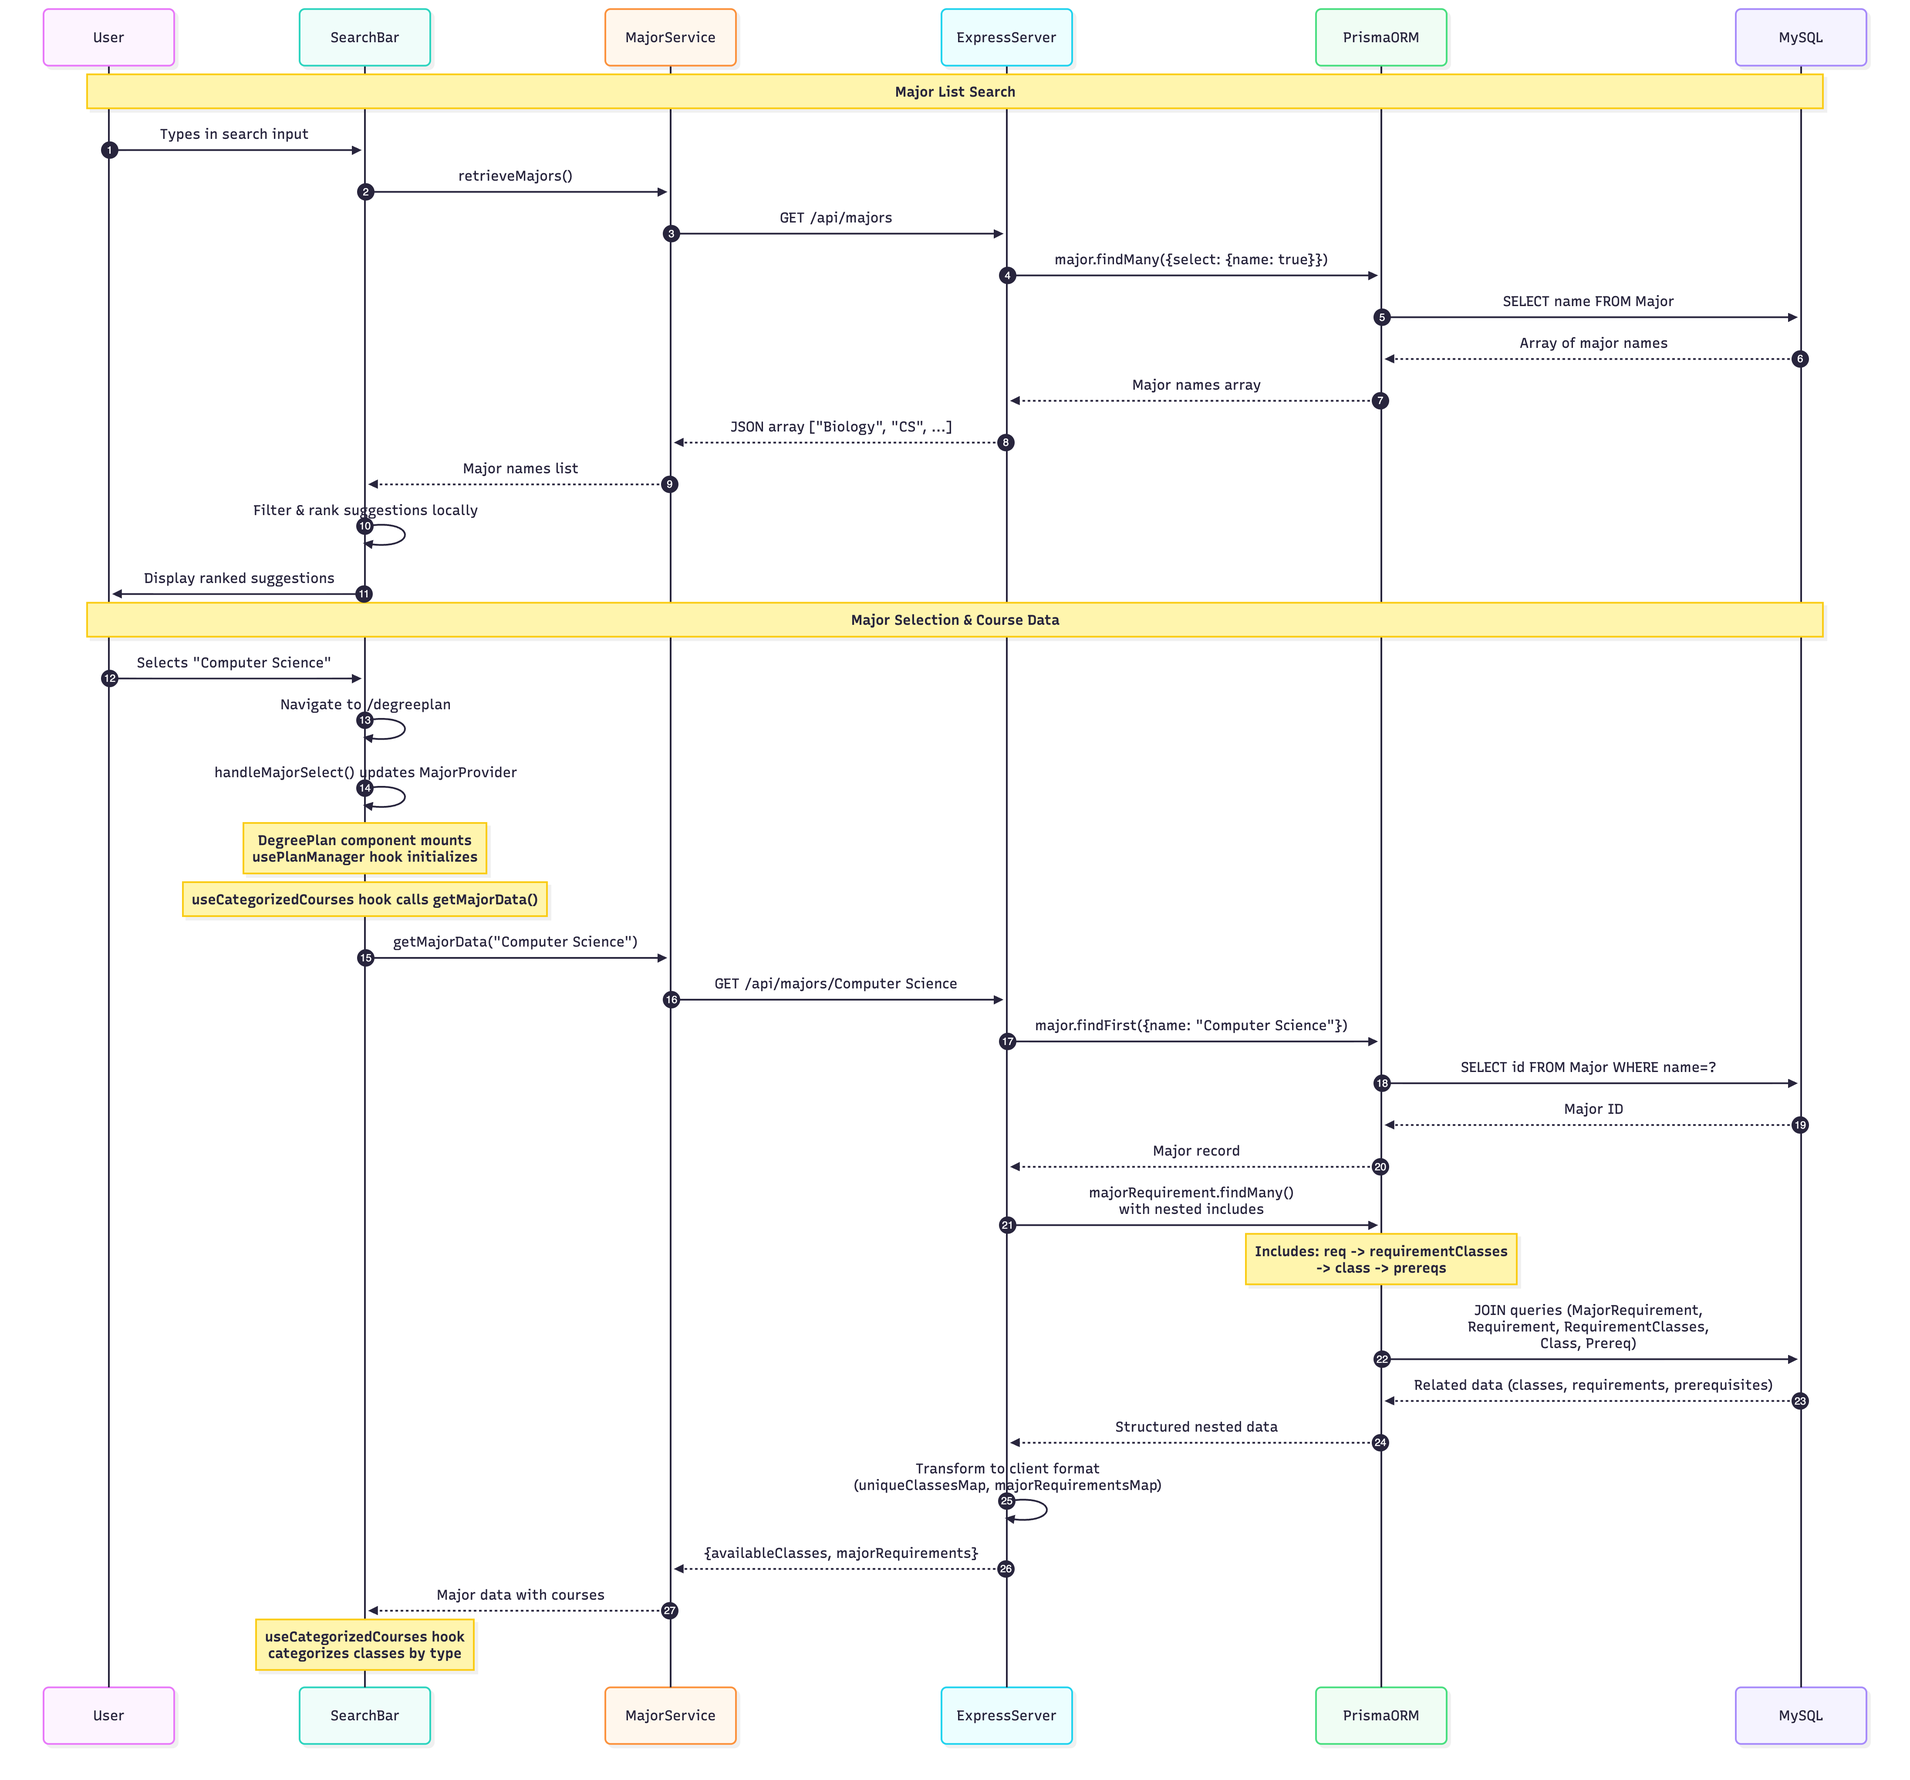
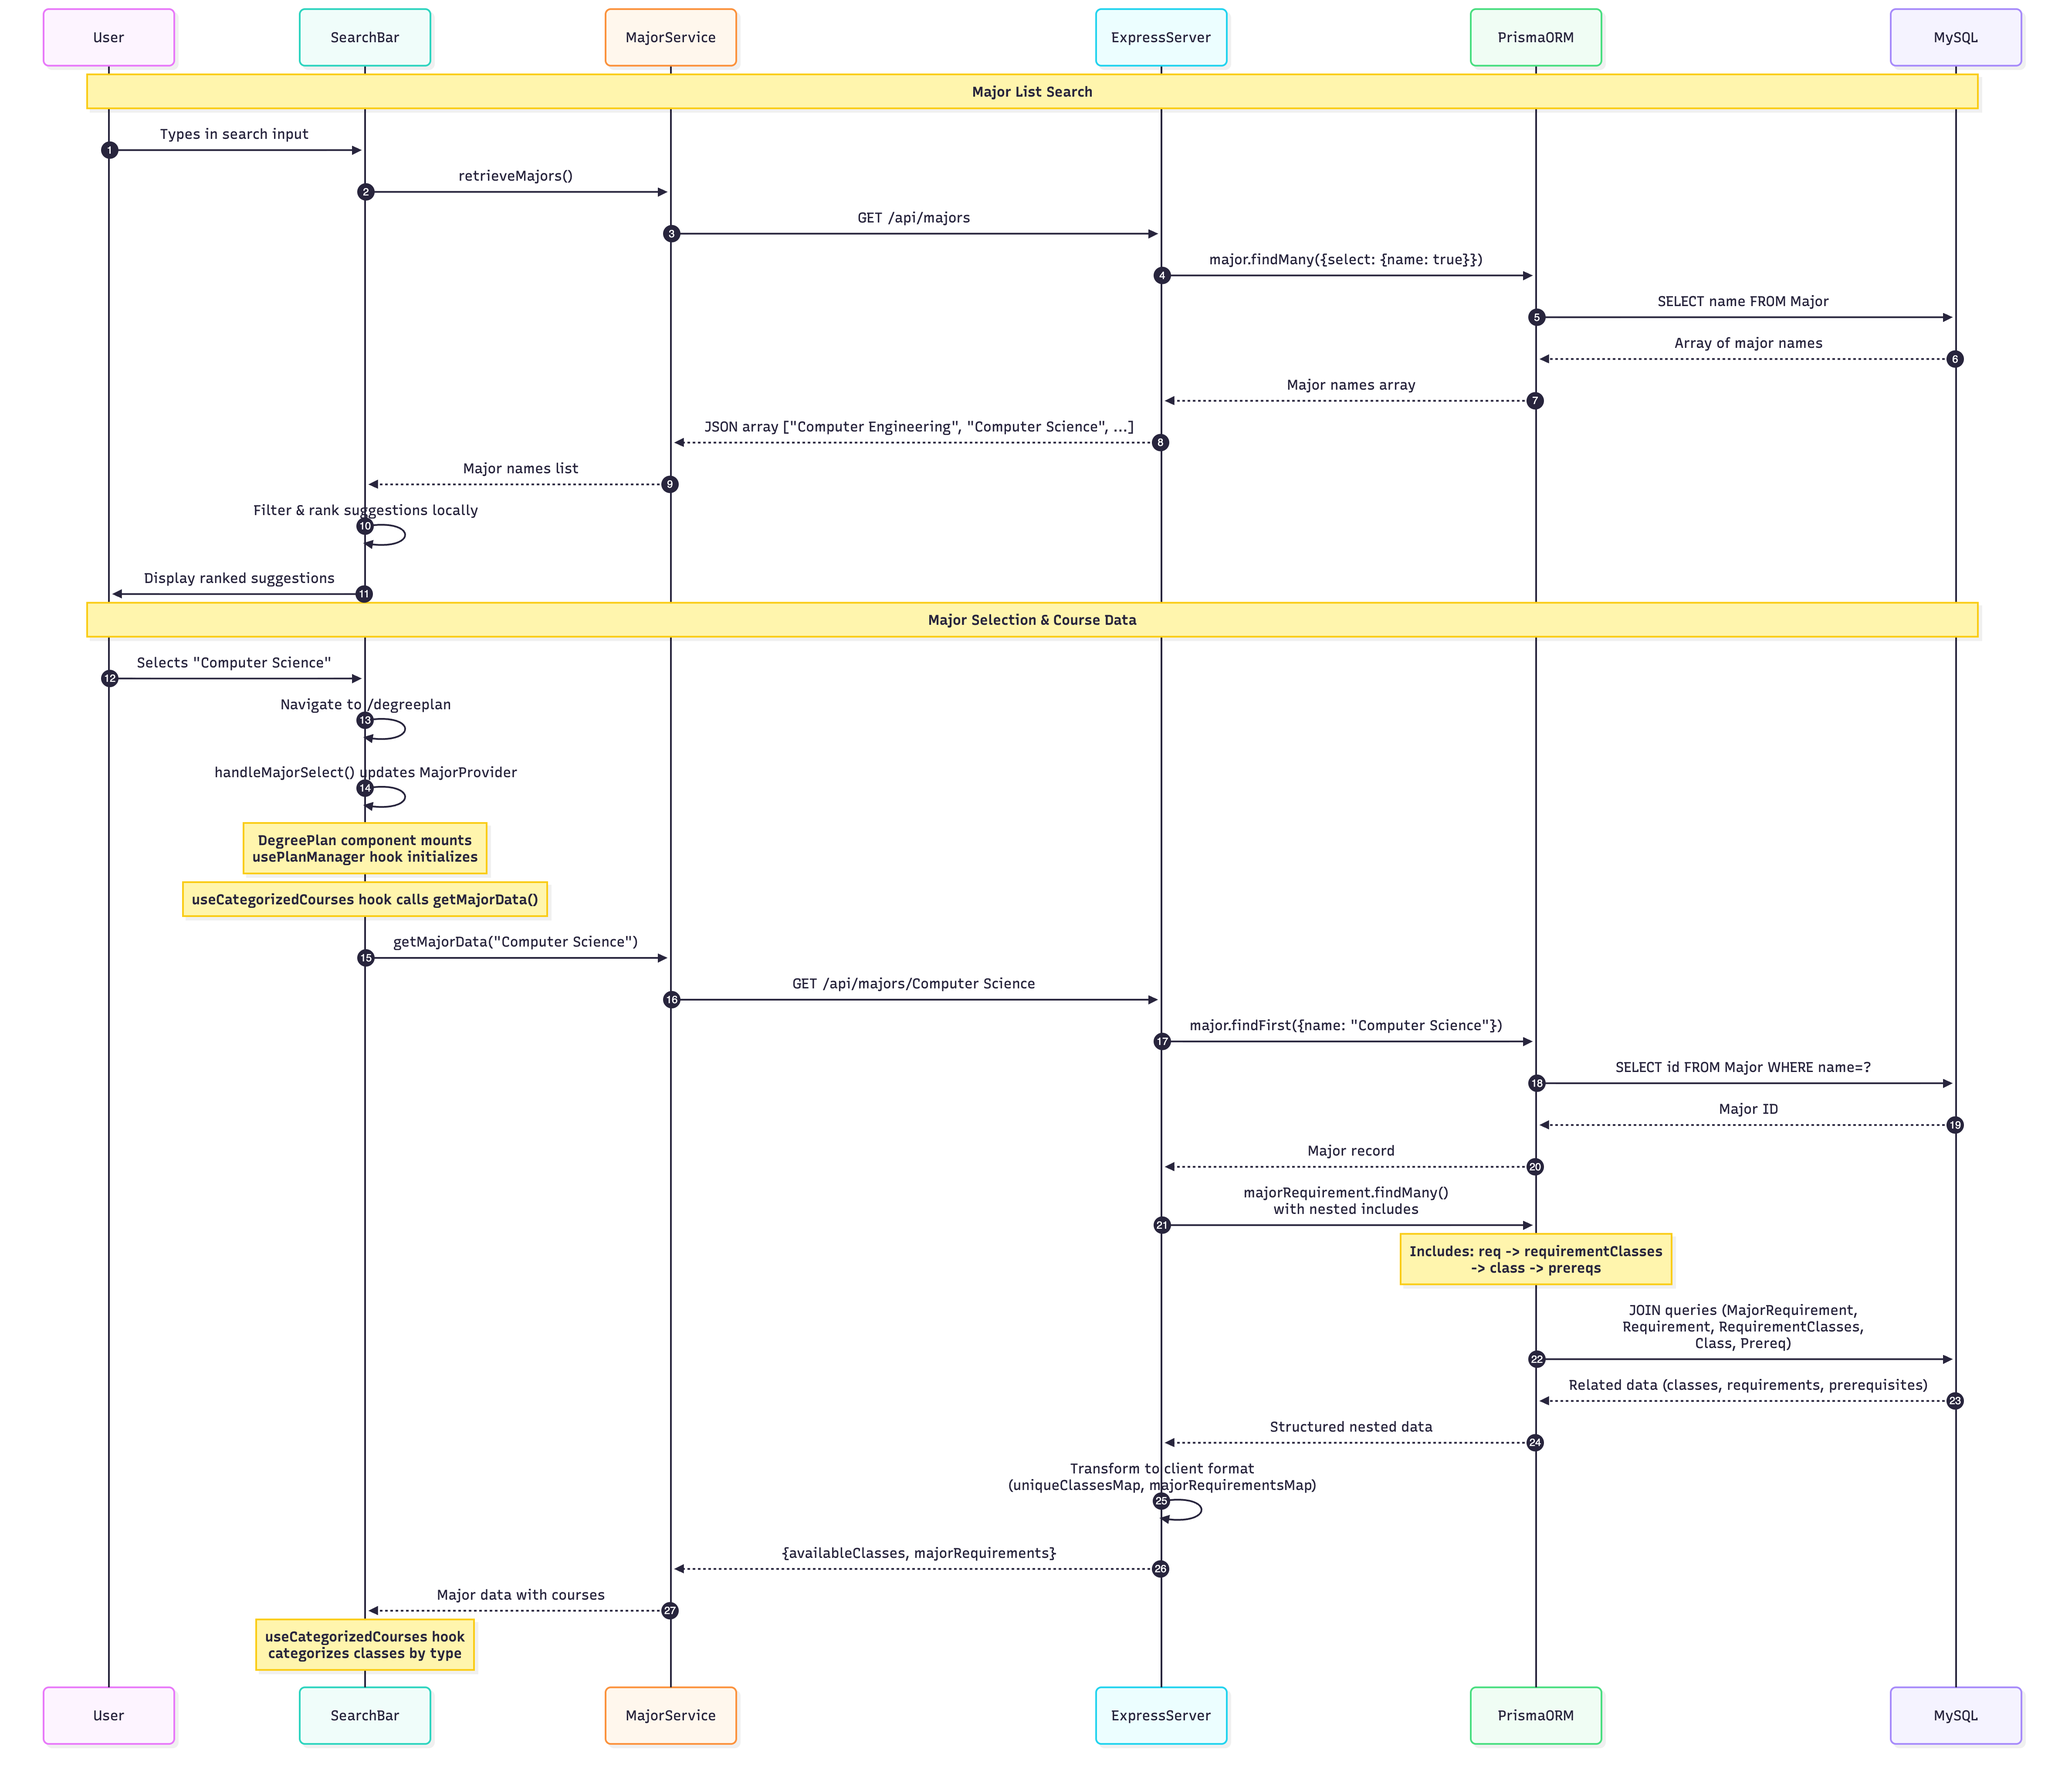
Update README with CourseCompiler name and verify accuracy, update MajorSearchSequenceDiagram

diff --git a/README.md b/README.md
@@ -1,10 +1,10 @@
-# BruinPlan: UCLA 4-Year Class Planner
+# CourseCompiler: UCLA 4-Year Class Planner
 
-BruinPlan helps UCLA Engineering students plan their 4-year degree path. You can drag and drop courses into a quarterly schedule, see which prerequisites you need, and track your progress toward graduation.
+CourseCompiler helps UCLA Engineering students plan their 4-year degree path. You can drag and drop courses into a quarterly schedule, see which prerequisites you need, and track your progress toward graduation.
 
 ## What It Does
 
-The app lets you search for your major, see all the required classes, and build a plan by dragging courses into quarters. It checks prerequisites automatically and warns you if you're taking too many units. You can save multiple plans and switch between them.
+The app lets you search for your engineering major, see all the required classes, and build a plan by dragging courses into quarters. It checks prerequisites automatically and warns you if you're taking too many units. You can save multiple plans and switch between them.
 
 ### Main Features
 
@@ -12,11 +12,12 @@ The app lets you search for your major, see all the required classes, and build 
 - See all required courses for your major loaded from our database
 - Drag courses into a 4-year quarterly schedule
 - System blocks you from adding classes if you haven't taken prerequisites
-- Get warnings if a quarter goes over 21 units
+- System blocks you from adding classes if a quarter would exceed 21 units (visual warning shown)
 
 **Progress Tracking**
 - See how much of your degree you've completed
-- Track progress by requirement type (Lower Division, Upper Division, GE, etc.)
+- Track progress by requirement type (Prep, Major, Tech Breadth, Sci-Tech, GE, etc.)
+- Progress bar shows completion percentage for each requirement category
 
 **Saving Plans**
 - Create an account to save your plans
@@ -24,14 +25,14 @@ The app lets you search for your major, see all the required classes, and build 
 - Your plans are stored in the database
 
 **Search**
-- Search for majors with real-time suggestions
+- Search for engineering majors with real-time suggestions
 - Results are ranked by relevance (exact matches first, then partial matches)
 
 ## How It's Built
 
 The frontend is React with Vite. We use React Router for navigation and @dnd-kit for the drag-and-drop functionality. State is managed with React Context (for auth and major selection) and custom hooks for different features.
 
-The backend is Express.js with Prisma as our ORM. We use MySQL for the database. Authentication uses JWT tokens, and passwords are hashed with bcrypt.
+The backend is Express.js with Prisma as our ORM. We use MySQL for the database. Authentication uses JWT tokens, and passwords are hashed with bcrypt. The server code is organized in `server/app.js` (routes and middleware) and `server/server.js` (entry point).
 
 We organized the code into custom hooks so each piece has a clear responsibility. API calls go through service functions, and protected routes use JWT middleware.
 
@@ -46,6 +47,7 @@ This diagram shows how React components and hooks are organized and how they int
 Owen u gotta add this
 
 i didnt wanna leave this blank so asked ai to make a random paragraph idk how well it aligns with yours
+
 The App component wraps everything with AuthProvider and MajorProvider for global state management. The DegreePlan page uses the usePlanManager hook, which coordinates useCategorizedCourses (fetches and categorizes courses), useDragAndDrop (handles the drag-and-drop logic), and useCourseValidation (checks prerequisites). PlanGrid renders the 4×4 grid of quarters, and CourseSidebar displays the categorized courses. Components like SavePlanButton, SavedPlansButton, and ProgressBar interact with the plan manager to provide the full functionality.
 
 ### 2. Database Schema Diagram
@@ -57,6 +59,7 @@ This ER diagram shows how the database tables relate to each other.
 Ciaran u gotta add this
 
 i didnt wanna leave this blank either so also asked ai to make a random paragraph idk how well it aligns with yours
+
 Users can have multiple Plans. Each Plan belongs to one Major and has multiple Quarters. Each Quarter has multiple PlanClasses, which link to Class records. Majors have Requirements through MajorRequirement, and Requirements link to Classes through RequirementClasses. Classes can have Prerequisites pointing to other Classes. The schema supports complex prerequisite relationships and tracks which classes fulfill which requirements.
 
 ### 3. Application State Diagram
@@ -65,7 +68,7 @@ This shows the different states the application can be in and how it transitions
 
 ![Application State Diagram](diagrams/StateDiagram.png)
 
-The application starts at HomeScreen where users can search for majors. Selecting a major transitions to LoadingPlan, then to PlanReady where users can drag and drop courses. The PlanReady state includes nested states for dragging, validating drops, saving plans, and browsing saved plans. Users can also authenticate from HomeScreen, which transitions to the Authenticating state.
+The application starts at HomeScreen where users can search for engineering majors. Selecting a major transitions to LoadingPlan, then to PlanReady where users can drag and drop courses. The PlanReady state includes nested states for dragging, validating drops, saving plans, and browsing saved plans. Users can also authenticate from HomeScreen, which transitions to the Authenticating state.
 
 ### 4. Major Search Sequence Diagram
 
@@ -73,7 +76,7 @@ This sequence diagram shows how major search and course data retrieval works.
 
 ![Major Search Sequence Diagram](diagrams/MajorSearchSequenceDiagram.png)
 
-When a user types in the search bar, the app fetches all majors from the server. The server queries the database through Prisma and returns a list of major names. The client filters and ranks suggestions locally. When a user selects a major, the app navigates to the degree plan page and fetches detailed course data including classes, requirements, and prerequisites. The server performs complex joins to retrieve all related data and transforms it into the format the client needs.
+When a user types in the search bar, the app fetches all engineering majors from the server. The server queries the database through Prisma and returns a list of major names. The client filters and ranks suggestions locally. When a user selects an engineering major, the app navigates to the degree plan page and fetches detailed course data including classes, requirements, and prerequisites. The server performs complex joins to retrieve all related data and transforms it into the format the client needs.
 
 ### 5. Authentication Sequence Diagram
 
@@ -106,7 +109,7 @@ When saving a plan, the client serializes the drag-and-drop zones into a quarter
 1. **Clone the repo**
    ```bash
    git clone <repository-url>
-   cd BruinPlan
+   cd CourseCompiler
    ```
 
 2. **Set up the server**
@@ -151,34 +154,39 @@ When saving a plan, the client serializes the drag-and-drop zones into a quarter
 
 3. **Open it in your browser**
    - Go to `http://localhost:5173`
-   - Search for a major (try "Computer Science")
+   - Search for an engineering major (try "Computer Science" or "Computer Engineering")
    - Start building your plan
 
 ## Project Structure
 
 ```
-BruinPlan/
+CourseCompiler/
 ├── client/
 │   ├── src/
-│   │   ├── components/        # React components
-│   │   │   ├── ai/          # AI chat stuff
+│   │   ├── components/      # React components
+│   │   │   ├── ai/          # AI chat components
 │   │   │   ├── ui/          # Reusable UI components
-│   │   │   └── ...          # Other components
+│   │   │   └── ...          # Other components (Auth, SearchBar, etc.)
 │   │   ├── contexts/        # React contexts (AuthContext)
-│   │   ├── hooks/           # Custom hooks
-│   │   ├── pages/           # Page components
-│   │   ├── providers/       # Context providers
+│   │   ├── hooks/           # Custom hooks (planManager, useDragAndDrop, etc.)
+│   │   ├── pages/           # Page components (HomeScreen, DegreePlan)
+│   │   ├── providers/       # Context providers (MajorProvider)
 │   │   ├── services/        # API service functions
+│   │   ├── styles/          # CSS files
 │   │   └── utils/           # Helper functions
 │   └── package.json
 ├── server/
-│   ├── app.js              # Express routes
-│   ├── server.js           # Entry point
+│   ├── app.js              # Express routes and middleware
+│   ├── server.js           # Entry point (starts server)
 │   ├── prisma/
 │   │   ├── schema.prisma   # Database schema
 │   │   └── migrations/     # DB migrations
-│   ├── features/           # Cucumber tests
+│   ├── features/           # Cucumber E2E tests
+│   │   └── step_definitions/
+│   ├── scripts/            # Utility scripts
 │   └── package.json
+├── diagrams/               # Architecture diagram images
+├── scraper/                # Data scraping scripts (legacy)
 └── README.md
 ```
 
@@ -207,11 +215,11 @@ Returns 200 with user object and JWT token.
 
 ### Major Data
 
-**GET /majors** - Get all majors
-Returns array of major names: `["Computer Engineering", "Computer Science", ...]`
+**GET /majors** - Get all engineering majors
+Returns array of engineering major names: `["Computer Engineering", "Computer Science", ...]`
 
-**GET /majors/:majorName** - Get major details
-Returns courses and requirements for that major:
+**GET /majors/:majorName** - Get engineering major details
+Returns courses and requirements for that engineering major:
 ```json
 {
   "availableClasses": [...],
@@ -264,15 +272,16 @@ The tests cover user creation and login. They're in `server/features/` with step
 - Run `npm install` in both `client/` and `server/` directories
 
 **Prisma errors**
-- Run `npx prisma generate` in the `server/` directory
+- Run `npm run prisma:generate` or `npx prisma generate` in the `server/` directory
 
 **Port 3000 already in use**
-- Kill whatever's using port 3000, or change the port in `server/server.js`
+- Kill whatever's using port 3000, or change the PORT constant in `server/server.js`
 
 **CORS errors**
 - Make sure the client is running on `http://localhost:5173`
 - Check the CORS config in `server/app.js` matches your client URL
+- The client uses Vite proxy (`/api` routes) configured in `client/vite.config.js`
 
 ---
 
-Built for CS35L at UCLA. BruinPlan Team on top: Owen Battles, Ciaran Turner, Atri Pandya, Conor Parman
+Built for CS35L at UCLA. CourseCompiler Team: Owen Battles, Ciaran Turner, Atri Pandya, Conor Parman
